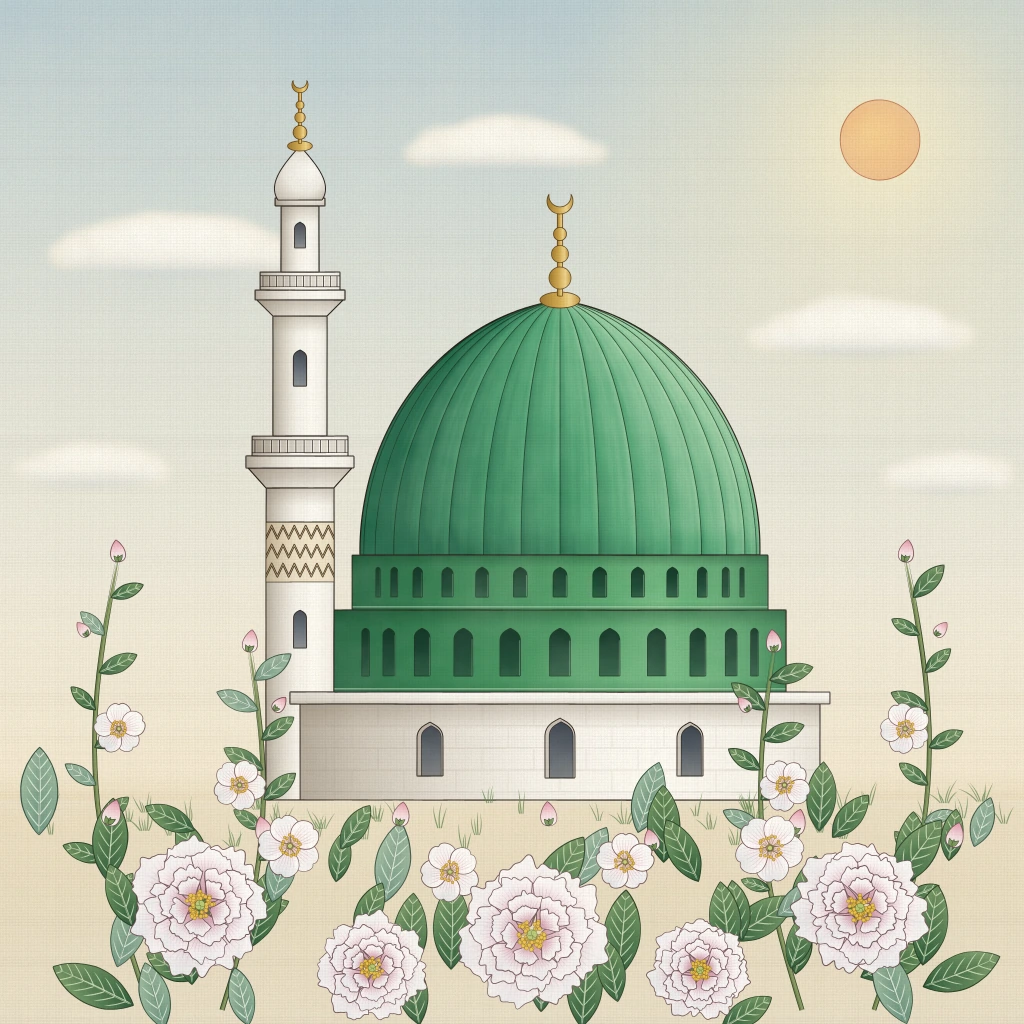
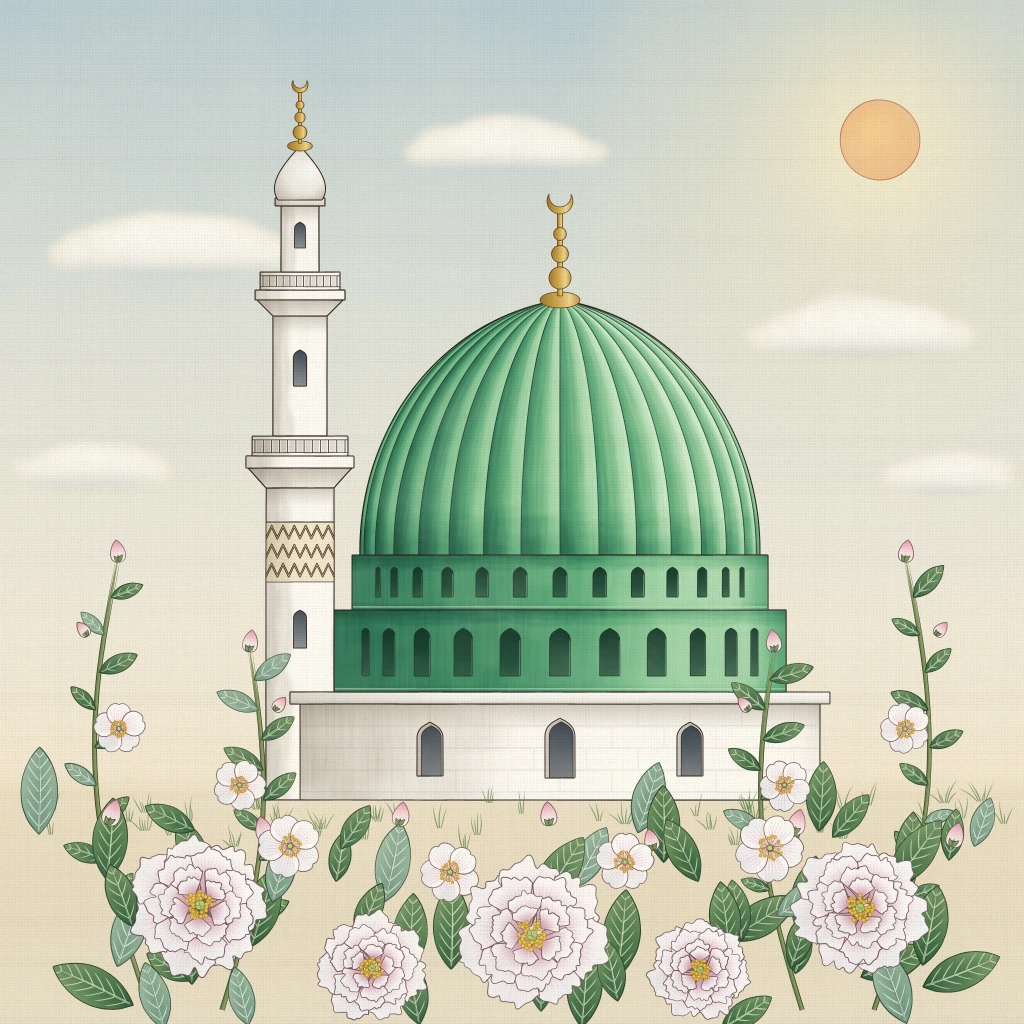
Atölye: beşinci tur çalışmalarının ara kaydı
Claude-Session: https://claude.ai/code/session_01Q8CfoBGMPN7gfLWQYpMs1J

diff --git a/atolye/stiller/S-182-guaj-doga-levhasi/ornek.html b/atolye/stiller/S-182-guaj-doga-levhasi/ornek.html
@@ -664,7 +664,7 @@
           ctx.strokeStyle = css(cc, o.alfa * (0.8 + R() * 0.4));
           ctx.lineWidth = o.kalin * (0.8 + R() * 0.4);
           let ca = Math.cos(a), sa = Math.sin(a);
-          const bk = (R() - 0.5) * 0.9;
+          const bk = (R() - 0.5) * 0.6;
           ctx.beginPath();
           ctx.moveTo(x - ca * L / 2, y - sa * L / 2);
           ctx.quadraticCurveTo(x - sa * bk, y + ca * bk, x + ca * L / 2, y + sa * L / 2);
@@ -708,7 +708,7 @@
   // ================================================================ zemin (soluk ılık levha zemini) ve gök
   const gokR = rampa([[0, '#8FBAD8'], [0.3, '#B5D0DF'], [0.58, '#E0E6DE'], [0.8, '#F4EAD3'], [1, '#F3E0BC']]);
   const gokF = (x, y) => { const c = gokR(y / 800 + (nI(x * 0.004, y * 0.004) - 0.5) * 0.06); const g = Math.exp(-Math.pow(Math.hypot(x - 880, y - 140) / 170, 2)); return [lerp(c[0], 253, g * 0.75), lerp(c[1], 247, g * 0.75), lerp(c[2], 228, g * 0.75)]; };
-  boya(new Path2D('M-10,-10 L1034,-10 L1034,806 L-10,806 Z'), [0, 0, 1024, 806], gokF, (x, y) => 0.04 + (nI(x * 0.006, y * 0.006) - 0.5) * 0.12, { yog: 0.9, uzun: 13, kalin: 0.8, alfa: 0.55, kontrast: 0.07, duz: 0, capraz: 0, ara: 2.6, doku: 0.012, sap: 0.05 });
+  boya(new Path2D('M-10,-10 L1034,-10 L1034,806 L-10,806 Z'), [0, 0, 1024, 806], gokF, (x, y) => 0.04 + (nI(x * 0.006, y * 0.006) - 0.5) * 0.12, { yog: 0.9, uzun: 10, kalin: 0.75, alfa: 0.5, kontrast: 0.055, duz: 0, capraz: 0, ara: 2.5, doku: 0.012, sap: 0.06 });
   // güneş: yumuşak, örtücü açık disk
   guaj(ctx, (x) => { x.filter = `blur(${2.5 * OL}px)`; x.beginPath(); x.arc(880, 140, 36, 0, PI2); x.fill(); }, '#FFF8E6', { kutu: [830, 90, 930, 190], alfa: 0.92, doku: 0.01, tohum: 4 });
   // bulutlar: yumuşak kenarlı örtücü beyaz, altları soğuk gri
@@ -724,11 +724,18 @@
       for (const d of b.daireler) { x.beginPath(); x.arc(d.x, d.y, d.r, 0, PI2); x.fill(); }
       x.restore();
     }, '#FFFFFF', { kutu, f: (x, y) => bulR(clamp((y - top) / (b.taban - top), 0, 1) * 0.8 + clamp((bx - x) / (200 * bs), 0, 0.3)), yon: 0.1, doku: 0.015, alfa: 0.94, tohum: 10 + bx });
+    // bulut kabarıklarını izleyen ince örtücü taramalar
+    const bulYol = new Path2D();
+    for (const d of b.daireler) { bulYol.moveTo(d.x + d.r * 0.9, d.y); bulYol.arc(d.x, d.y, d.r * 0.9, 0, PI2); }
+    const enYakin = (x, y) => { let m = 1e9, q = b.daireler[0]; for (const d of b.daireler) { const v = Math.hypot(x - d.x, y - d.y) - d.r; if (v < m) { m = v; q = d; } } return q; };
+    ctx.save(); ctx.beginPath(); ctx.rect(0, 0, 1024, b.taban - 2); ctx.clip();
+    boya(bulYol, kutu, (x, y) => bulR(clamp((y - top) / (b.taban - top), 0, 1) * 0.85 + clamp((bx - x) / (200 * bs), 0, 0.3)), (x, y) => { const d = enYakin(x, y); return Math.atan2(y - d.y, x - d.x) + Math.PI / 2; }, { zemin: false, yog: 1, uzun: 6, kalin: 0.6, alfa: 0.55, kontrast: 0.1, ara: 2, capraz: 0 });
+    ctx.restore();
   }
 
   // ---- yer: soluk kum, ince çakıl ve ot
   const yerR = rampa([[0, '#E6D1A2'], [1, '#D2B47D']]);
-  boya(new Path2D('M-10,800 L1034,800 L1034,1034 L-10,1034 Z'), [0, 800, 1024, 1024], (x, y) => yerR((y - 800) / 224 + (nI(x * 0.02, y * 0.05) - 0.5) * 0.25), 0.02, { yog: 0.8, uzun: 11, alfa: 0.5, kontrast: 0.1, duz: 0, ara: 2.4 });
+  boya(new Path2D('M-10,800 L1034,800 L1034,1034 L-10,1034 Z'), [0, 800, 1024, 1024], (x, y) => yerR((y - 800) / 224 + (nI(x * 0.012, y * 0.02) - 0.5) * 0.12), (x, y) => -0.35 + (nI(x * 0.01, y * 0.01) - 0.5) * 0.3, { yog: 0.9, uzun: 6, kalin: 0.65, alfa: 0.55, kontrast: 0.11, duz: 0, ara: 2.1, capraz: 0 });
   // binanın yere düşen yumuşak gölgesi
   guaj(ctx, (x) => { x.filter = `blur(${2 * OL}px)`; x.beginPath(); x.moveTo(266, 801); x.lineTo(822, 801); x.lineTo(800, 811); x.lineTo(250, 815); x.closePath(); x.fill(); }, '#BCA987', { kutu: [240, 796, 830, 822], alfa: 0.5 });
   for (let i = 0; i < 140; i++) {
@@ -748,7 +755,7 @@
   }
 
   // ================================================================ taş paleti ve minare
-  const tasR = rampa([[0, '#B9A889'], [0.35, '#D3C5A7'], [0.7, '#EADFC8'], [1, '#F7F0E1']]);
+  const tasR = rampa([[0, '#A9967A'], [0.35, '#CDBD9C'], [0.7, '#EADDC2'], [1, '#FBF4E4']]);
   const MY = minareYollari();
   const silY = (x) => Math.PI / 2; // dikey taramalar
   for (const p of MY) {
@@ -757,7 +764,7 @@
     const R0 = (p.kx2 - p.kx1) / 2;
     const kutu = [p.kx1, p.ky1, p.kx2, p.ky2];
     const cikma = p.ad.startsWith('çıkma');
-    boya(yol, kutu, (x, y) => tasR(silindirIsik(x, 300, R0) * (cikma ? 0.55 : 1) - (p.ad.startsWith('şerefe') && y > p.ky2 - 3 ? 0.35 : 0)), silY, { yog: 0.8, uzun: 6, kalin: 0.6 });
+    boya(yol, kutu, (x, y) => tasR((0.1 + 0.95 * Math.pow(silindirIsik(x, 300, R0), 1.4)) * (cikma ? 0.6 : 1) - (p.ad.startsWith('şerefe') && y > p.ky2 - 3 ? 0.35 : 0)), silY, { yog: 1, uzun: 6, kalin: 0.6, kontrast: 0.16, ara: 2 });
     if (cikma) {
       // çıkmanın ince dikey yivleri
       for (let x = p.kx1 + 5; x < p.kx2 - 4; x += 6) {
@@ -917,7 +924,7 @@
       return [c[0] * (1 + v * 0.12), c[1], c[2] * (1 - v * 0.1)];
     };
     const yonK = (x, y) => { const r0 = kubbeYaricap(y); const u = clamp((x - 560) / Math.max(r0, 1), -1, 1); return Math.PI / 2 + u * 0.6; };
-    boya(kubbe, kk, renkK, yonK, { yog: 1.25, uzun: 10, kalin: 0.75, alfa: 0.62, kontrast: 0.24, duz: 0.35, ara: 2.2 });
+    boya(kubbe, kk, renkK, yonK, { yog: 1.25, uzun: 9, kalin: 0.75, alfa: 0.62, kontrast: 0.24, duz: 0.35, ara: 2.1, sap: 0.04 });
     // kaburga sırtları: solda ince koyu, sağda ince açık çizgi
     for (const kb of SAHNE.kaburgalar(16)) {
       const pts = kb.noktalar.filter((q) => q[1] > 306);

diff --git a/atolye/stiller/S-169-kuru-firca-naturalist/ornek.html b/atolye/stiller/S-169-kuru-firca-naturalist/ornek.html
@@ -397,6 +397,7 @@
   const cicekAlan = (c) => { for (const f of cicekler) { for (const t of f.tac) c.fill(P(t.d)); c.beginPath(); c.arc(f.c.x, f.c.y, f.c.r * 0.3, 0, Math.PI * 2); c.fill(); } };
   const mCicek = M.maske(cicekAlan);
   const mBitki = M.maske((c) => { c.lineWidth = 4; for (const s of Y.saplar) c.stroke(P(s)); for (const d of Y.yapraklar) c.fill(P(d)); for (const d of Y.tomurcuklar) c.fill(P(d)); cicekAlan(c); });
+  const mOnde = M.birles(mCicek, M.yolMaske(Y.tomurcuklar)); // yaprakların önünde kalan çiçek ve tomurcuklar
   const korOn = mBitki;
   const tumKor = M.birles(mBina, mBitki);
 
@@ -439,8 +440,8 @@
   M.yika(M.fMaske([300, 700, 820, 730], (x, y) => (y >= 704 ? mKaide.a[y * W + x] * sstep(728, 706, y) : 0)), '#B9B4C4', { yog: 0.7, koru: korOn, kenar: 0.04 });
   M.yika(M.fMaske([300, 704, 820, 800], (x, y) => mKaide.a[y * W + x] * clamp((480 - x) / 200, 0, 1)), '#CCC7D4', { yog: 0.4, yumusak: 2, koru: korOn, kenar: 0 });
   // bitki ilk yıkamaları
-  M.yika(M.yolMaske(Y.yapraklar), '#B3CC8C', { yog: 0.85, yumusak: 0.5, koru: mCicek, kenar: 0.1, gran: 0.1, akis: 0.18 });
-  M.yika(M.maske((c) => { c.lineWidth = 3; for (const s of Y.saplar) c.stroke(P(s)); }), '#86A762', { yog: 0.85, koru: mCicek, kenar: 0.08 });
+  M.yika(M.yolMaske(Y.yapraklar), '#B3CC8C', { yog: 0.85, yumusak: 0.5, koru: mOnde, kenar: 0.1, gran: 0.1, akis: 0.18 });
+  M.yika(M.maske((c) => { c.lineWidth = 3; for (const s of Y.saplar) c.stroke(P(s)); }), '#86A762', { yog: 0.85, koru: mOnde, kenar: 0.08 });
   M.yika(M.yolMaske(Y.tomurcuklar), '#E9B2BE', { yog: 0.8, koru: mCicek, kenar: 0.1 });
 
   // ------------------------------------------------------------ 2. kuru fırça: biçimi izleyen ince darbeler
@@ -513,7 +514,7 @@
         c.restore();
       }
     });
-    M.yika(m, renk, { yog, kuru: 0.42, kuruY: 0.1, koru: mCicek, kenar: 0, gran: 0.1, akis: 0.06 });
+    M.yika(m, renk, { yog, kuru: 0.42, kuruY: 0.1, koru: mOnde, kenar: 0, gran: 0.1, akis: 0.06 });
   }
   yaprakKat(yapraklar, '#5E8C4A', 0.8, true, 21);
   yaprakKat(yapraklar.filter((o) => o.i % 2 === 0), '#3B6A47', 0.7, false, 22);
@@ -525,9 +526,9 @@
       const [a, b] = SAHNE.yaprakDamari(y);
       c.beginPath(); c.moveTo(a[0] + t * nx * 1.3, a[1] + t * ny * 1.3); c.lineTo(b[0] + t * nx * 1.3, b[1] + t * ny * 1.3); c.stroke();
     }
-  }), '#355E3F', { yog: 0.6, kuru: 0.35, kuruY: 0.12, koru: mCicek, kenar: 0 });
+  }), '#355E3F', { yog: 0.6, kuru: 0.35, kuruY: 0.12, koru: mOnde, kenar: 0 });
   // saplar ve tomurcuklar: ince ayrıntı
-  M.yika(M.maske((c) => { c.lineWidth = 1.2; c.translate(-0.8, 0.5); for (const s of Y.saplar) c.stroke(P(s)); }), '#3F6A3E', { yog: 0.7, kuru: 0.36, koru: mCicek, kenar: 0 });
+  M.yika(M.maske((c) => { c.lineWidth = 1.2; c.translate(-0.8, 0.5); for (const s of Y.saplar) c.stroke(P(s)); }), '#3F6A3E', { yog: 0.7, kuru: 0.36, koru: mOnde, kenar: 0 });
   kuruKat(Y.tomurcuklar, { n: 400, kutu: [60, 520, 980, 870], olas: () => 1, yon: (x, y) => { let best = 0, bd = 1e9; for (const t of B.tomurcuklar) { const d = (x - t.x) ** 2 + (y - t.y) ** 2; if (d < bd) { bd = d; best = t.aci; } } return best; }, uz: [4, 9], kal: [0.8, 1.1], tohum: 23 }, '#B5577A', { yog: 0.7, kuru: 0.42, koru: mCicek });
   M.yika(M.maske((c) => { for (const t of B.tomurcuklar) { c.beginPath(); c.ellipse(t.x - Math.cos(t.aci) * t.r * 0.55, t.y - Math.sin(t.aci) * t.r * 0.55, t.r * 0.62, t.r * 0.42, t.aci, 0, Math.PI * 2); c.fill(); } }), '#5F8A4C', { yog: 0.8, koru: mCicek, kenar: 0.1, gran: 0.15 });
 

diff --git a/atolye/stiller/S-168-tonlu-kagitta-suluboya/ornek.html b/atolye/stiller/S-168-tonlu-kagitta-suluboya/ornek.html
@@ -410,6 +410,7 @@
   const cicekAlan = (c) => { for (const f of cicekler) { for (const t of f.tac) c.fill(P(t.d)); c.beginPath(); c.arc(f.c.x, f.c.y, f.c.r * 0.3, 0, Math.PI * 2); c.fill(); } };
   const mCicek = M.maske(cicekAlan);
   const mBitki = M.maske((c) => { c.lineWidth = 4; for (const s of Y.saplar) c.stroke(P(s)); for (const d of Y.yapraklar) c.fill(P(d)); for (const d of Y.tomurcuklar) c.fill(P(d)); cicekAlan(c); });
+  const mOnde = M.birles(mCicek, M.yolMaske(Y.tomurcuklar)); // yaprakların önünde kalan çiçek ve tomurcuklar
   const korOn = mBitki;
 
   // ------------------------------------------------------------ 1. gök: saydam serüle-kobalt, ufukta soluk sıcak
@@ -482,12 +483,12 @@
   // ------------------------------------------------------------ 4. zemin ve bitkiler (saydam)
   M.yika(M.fMaske([0, 796, W, W], (x, y) => (y >= 800 ? 1 : 0)), '#E4B48A', { yog: 0.5, koru: M.birles(korOn, mBina), kenar: 0.15, gran: 0.18, akis: 0.15, titre: 0.5, grad: (x, y) => 0.75 + 0.4 * sstep(800, 1024, y) });
   M.yika(M.maske((c) => { c.translate(-5, 4); for (const d of Y.yapraklar) c.fill(P(d)); cicekAlan(c); }), '#9C93A8', { yog: 0.25, koru: M.birles(korOn, mBina), kenar: 0.2, titre: 0.6, grad: (x, y) => (y > 802 ? 1 : 0) });
-  M.yika(M.maske((c) => { c.lineWidth = 3.2; for (const s of Y.saplar) c.stroke(P(s)); }), '#5E8C4A', { yog: 0.85, koru: mCicek, kenar: 0.2, titre: 0.4 });
+  M.yika(M.maske((c) => { c.lineWidth = 3.2; for (const s of Y.saplar) c.stroke(P(s)); }), '#5E8C4A', { yog: 0.85, koru: mOnde, kenar: 0.2, titre: 0.4 });
   const yapraklar = B.yapraklar.map((y, i) => ({ y, i, t: R() }));
   for (const grup of [0, 1, 2].map((k) => yapraklar.filter((o) => o.i % 3 === k))) {
-    M.yika(M.yolMaske(grup.filter((o) => o.t < 0.55).map((o) => SAHNE.yaprakYolu(o.y))), '#8DB665', { yog: 0.9, koru: mCicek, kenar: 0.3, kenarR: 2.5, gran: 0.12, titre: 0.45 });
-    M.yika(M.yolMaske(grup.filter((o) => o.t >= 0.55).map((o) => SAHNE.yaprakYolu(o.y))), '#6FA779', { yog: 0.9, koru: mCicek, kenar: 0.3, kenarR: 2.5, gran: 0.12, titre: 0.45 });
-    M.yika(M.yolMaske(grup.map((o) => { const nx = -Math.sin(o.y.aci), ny = Math.cos(o.y.aci); return yaprakYarisi(o.y, nx * LX + ny * LY > 0 ? -1 : 1); })), '#2E6A4C', { yog: 0.6, koru: mCicek, kenar: 0.3, kenarR: 2, gran: 0.1, titre: 0.4 });
+    M.yika(M.yolMaske(grup.filter((o) => o.t < 0.55).map((o) => SAHNE.yaprakYolu(o.y))), '#8DB665', { yog: 0.9, koru: mOnde, kenar: 0.3, kenarR: 2.5, gran: 0.12, titre: 0.45 });
+    M.yika(M.yolMaske(grup.filter((o) => o.t >= 0.55).map((o) => SAHNE.yaprakYolu(o.y))), '#6FA779', { yog: 0.9, koru: mOnde, kenar: 0.3, kenarR: 2.5, gran: 0.12, titre: 0.45 });
+    M.yika(M.yolMaske(grup.map((o) => { const nx = -Math.sin(o.y.aci), ny = Math.cos(o.y.aci); return yaprakYarisi(o.y, nx * LX + ny * LY > 0 ? -1 : 1); })), '#2E6A4C', { yog: 0.6, koru: mOnde, kenar: 0.3, kenarR: 2, gran: 0.1, titre: 0.4 });
   }
   M.yika(M.yolMaske(Y.tomurcuklar), '#DC8FA6', { yog: 0.85, koru: mCicek, kenar: 0.3, titre: 0.3 });
   M.yika(M.maske((c) => { for (const t of B.tomurcuklar) { c.beginPath(); c.ellipse(t.x - Math.cos(t.aci) * t.r * 0.55, t.y - Math.sin(t.aci) * t.r * 0.55, t.r * 0.62, t.r * 0.42, t.aci, 0, Math.PI * 2); c.fill(); } }), '#5E8C4A', { yog: 0.8, koru: mCicek, kenar: 0.25, titre: 0.25 });

diff --git a/atolye/stiller/S-167-pastel-tonlu-suluboya/ornek.html b/atolye/stiller/S-167-pastel-tonlu-suluboya/ornek.html
@@ -411,6 +411,7 @@
   const mTomurcuk = M.maske((c) => { for (const t of B.tomurcuklar) { c.beginPath(); c.ellipse(t.x + Math.cos(t.aci) * t.r * 0.3, t.y + Math.sin(t.aci) * t.r * 0.3, t.r * 1.05, t.r * 0.95, t.aci, 0, Math.PI * 2); c.fill(); } });
   const mBitki = M.maske((c) => {
     c.lineWidth = 4; for (const s of Y.saplar) c.stroke(P(s));
+  const mOnde = M.birles(mCicek, mTomurcuk); // yaprakların önünde kalan çiçek ve tomurcuklar
     for (const d of Y.yapraklar) c.fill(P(d));
     for (const t of B.tomurcuklar) { c.beginPath(); c.ellipse(t.x + Math.cos(t.aci) * t.r * 0.3, t.y + Math.sin(t.aci) * t.r * 0.3, t.r * 1.05, t.r * 0.95, t.aci, 0, Math.PI * 2); c.fill(); }
     for (const f of cicekler) { for (const t of f.yap) c.fill(P(t.d)); c.beginPath(); c.arc(f.c.x, f.c.y, f.r * 0.86, 0, Math.PI * 2); c.fill(); }
@@ -511,12 +512,12 @@
   // önde, çiçeklerin arkasında ıslakta yayılmış soluk adaçayı-nane yaprak kütlesi (çiçeklerin beyazını öne çıkarır)
   M.yika(M.fMaske([0, 760, W, W], (x, y) => vin(x, Math.min(y, 1000)) * sstep(800 + (M.fbm(nz, x / 70, 3, 3) - 0.5) * 90, 870, y)), '#CFE5D0', { yog: 0.85, yumusak: 3, koru: M.mBulanik(mCicek, 1), kenar: 0.06, gran: 0.05, akis: 0.22, tuy: 0.5 });
   // ------------------------------------------------------------ 5. yapraklar ve saplar: nane ve adaçayı, yumuşak kenarlı
-  M.yika(M.maske((c) => { c.lineWidth = 3; for (const s of Y.saplar) c.stroke(P(s)); }), '#9CC59E', { yog: 0.85, yumusak: 0.4, koru: mCicek, kenar: 0.08 });
+  M.yika(M.maske((c) => { c.lineWidth = 3; for (const s of Y.saplar) c.stroke(P(s)); }), '#9CC59E', { yog: 0.85, yumusak: 0.4, koru: mOnde, kenar: 0.08 });
   const yapraklar = B.yapraklar.map((y, i) => ({ y, i, t: R() }));
   for (const grup of [0, 1, 2].map((k) => yapraklar.filter((o) => o.i % 3 === k))) {
-    M.yika(M.yolMaske(grup.filter((o) => o.t < 0.5).map((o) => SAHNE.yaprakYolu(o.y))), '#C2E3C5', { yog: 0.9, yumusak: 1, koru: mCicek, kenar: 0.14, kenarR: 3, gran: 0.06, akis: 0.2 });
-    M.yika(M.yolMaske(grup.filter((o) => o.t >= 0.5).map((o) => SAHNE.yaprakYolu(o.y))), '#A9D3B6', { yog: 0.9, yumusak: 1, koru: mCicek, kenar: 0.14, kenarR: 3, gran: 0.06, akis: 0.2 });
-    M.yika(M.yolMaske(grup.map((o) => { const nx = -Math.sin(o.y.aci), ny = Math.cos(o.y.aci); return yaprakYarisi(o.y, nx * LX + ny * LY > 0 ? -1 : 1); })), '#7FB79A', { yog: 0.6, yumusak: 1.6, koru: mCicek, kenar: 0.1, gran: 0.05 });
+    M.yika(M.yolMaske(grup.filter((o) => o.t < 0.5).map((o) => SAHNE.yaprakYolu(o.y))), '#C2E3C5', { yog: 0.9, yumusak: 1, koru: mOnde, kenar: 0.14, kenarR: 3, gran: 0.06, akis: 0.2 });
+    M.yika(M.yolMaske(grup.filter((o) => o.t >= 0.5).map((o) => SAHNE.yaprakYolu(o.y))), '#A9D3B6', { yog: 0.9, yumusak: 1, koru: mOnde, kenar: 0.14, kenarR: 3, gran: 0.06, akis: 0.2 });
+    M.yika(M.yolMaske(grup.map((o) => { const nx = -Math.sin(o.y.aci), ny = Math.cos(o.y.aci); return yaprakYarisi(o.y, nx * LX + ny * LY > 0 ? -1 : 1); })), '#7FB79A', { yog: 0.6, yumusak: 1.6, koru: mOnde, kenar: 0.1, gran: 0.05 });
   }
   // tomurcuklar: yuvarlak şakayık tomurcukları, pembe
   M.yika(mTomurcuk, '#F4C3CD', { yog: 0.9, yumusak: 0.6, koru: mCicek, kenar: 0.12 });

diff --git a/atolye/stiller/S-166-isikli-sir-suluboya/ornek.html b/atolye/stiller/S-166-isikli-sir-suluboya/ornek.html
@@ -402,6 +402,7 @@
   const mTomurcuk = M.yolMaske(Y.tomurcuklar);
   const mBitki = M.maske((c) => {
     c.lineWidth = 4; for (const s of Y.saplar) c.stroke(P(s));
+  const mOnde = M.birles(mCicek, mTomurcuk); // yaprakların önünde kalan çiçek ve tomurcuklar
     for (const d of Y.yapraklar) c.fill(P(d));
     for (const d of Y.tomurcuklar) c.fill(P(d));
     for (const f of cicekler) { for (const t of f.tac) c.fill(P(t.d)); c.beginPath(); c.arc(f.c.x, f.c.y, f.c.r * 0.3, 0, Math.PI * 2); c.fill(); }
@@ -638,15 +639,15 @@
   M.yika(M.mBulanik(M.maske((c) => { c.translate(-9, 7); for (const d of Y.yapraklar) c.fill(P(d)); for (const f of cicekler) for (const t of f.tac) c.fill(P(t.d)); }), 1), '#A9ABD6', { yog: 0.7, koru: M.birles(korOn, mBina), kenar: 0.3, titre: 0.6, grad: (x, y) => (y > 800 ? 1 : 0) });
 
   // ------------------------------------------------------------ 7. bitkiler: saplar, yapraklar (iki yarım, ortada korunmuş damar), tomurcuklar
-  M.yika(M.maske((c) => { c.lineWidth = 3.4; for (const s of Y.saplar) c.stroke(P(s)); }), '#79A64A', { yog: 0.9, koru: mCicek, kenar: 0.3, titre: 0.4 });
-  M.yika(M.maske((c) => { c.lineWidth = 1.6; c.translate(-1, 0.6); for (const s of Y.saplar) c.stroke(P(s)); }), '#2F6A4A', { yog: 0.5, koru: mCicek, kenar: 0.2, titre: 0.3 });
+  M.yika(M.maske((c) => { c.lineWidth = 3.4; for (const s of Y.saplar) c.stroke(P(s)); }), '#79A64A', { yog: 0.9, koru: mOnde, kenar: 0.3, titre: 0.4 });
+  M.yika(M.maske((c) => { c.lineWidth = 1.6; c.translate(-1, 0.6); for (const s of Y.saplar) c.stroke(P(s)); }), '#2F6A4A', { yog: 0.5, koru: mOnde, kenar: 0.2, titre: 0.3 });
   // yapraklar: arkadan öne gruplar halinde; her yaprak ışıklı yarısı sarı-yeşil, gölge yarısı mavi-yeşil
   const yapraklar = B.yapraklar.map((y, i) => ({ y, i, tonR: R(), tonG: R() }));
   const damarKoru = (liste) => M.maske((c) => { c.lineWidth = 1.3; for (const o of liste) { const [a, b] = SAHNE.yaprakDamari(o.y); c.beginPath(); c.moveTo(a[0], a[1]); c.lineTo(b[0], b[1]); c.stroke(); } });
   const gruplar = [yapraklar.filter((o) => o.i % 3 === 0), yapraklar.filter((o) => o.i % 3 === 1), yapraklar.filter((o) => o.i % 3 === 2)];
   for (const grup of gruplar) {
     const dk = damarKoru(grup);
-    const korY = M.birles(mCicek, dk);
+    const korY = M.birles(mOnde, dk);
     const sicak = grup.filter((o) => o.tonR < 0.55), serin = grup.filter((o) => o.tonR >= 0.55);
     M.yika(M.yolMaske(sicak.map((o) => SAHNE.yaprakYolu(o.y))), '#B4D467', { yog: 0.85, koru: korY, kenar: 0.35, kenarR: 2.5, gran: 0.15, titre: 0.45 });
     M.yika(M.yolMaske(serin.map((o) => SAHNE.yaprakYolu(o.y))), '#93C878', { yog: 0.85, koru: korY, kenar: 0.35, kenarR: 2.5, gran: 0.15, titre: 0.45 });

diff --git a/atolye/stiller/S-170-mimari-lavi/ornek.html b/atolye/stiller/S-170-mimari-lavi/ornek.html
@@ -389,6 +389,7 @@
   const cicekAlan = (c) => { for (const f of cicekler) { for (const t of f.tac) c.fill(P(t.d)); c.beginPath(); c.arc(f.c.x, f.c.y, f.c.r * 0.3, 0, Math.PI * 2); c.fill(); } };
   const mCicek = M.maske(cicekAlan);
   const mBitki = M.maske((c) => { c.lineWidth = 3; for (const s of Y.saplar) c.stroke(P(s)); for (const d of Y.yapraklar) c.fill(P(d)); for (const d of Y.tomurcuklar) c.fill(P(d)); cicekAlan(c); });
+  const mOnde = M.birles(mCicek, M.yolMaske(Y.tomurcuklar)); // yaprakların önünde kalan çiçek ve tomurcuklar
   const korOn = mBitki;
   const tumKor = M.birles(mBina, mBitki);
 
@@ -462,8 +463,8 @@
   [860, 930, 990].forEach((ust) => lavi(M.fMaske([0, 796, W, W], (x, y) => (y >= ust ? 1 : 0)), '#D9C59E', 0.18, { koru: M.birles(korOn, mBina) }));
   lavi(M.maske((c) => { c.translate(-10, 10); for (const d of Y.yapraklar) c.fill(P(d)); cicekAlan(c); }), '#AEA6B5', 0.35, { koru: M.birles(korOn, mBina), grad: (x, y) => (y > 802 ? 1 : 0) });
   // yapraklar: düz soluk yeşil, gölge yarısı ikinci kat
-  lavi(M.yolMaske(Y.yapraklar), '#BDD3A8', 0.85, { koru: mCicek });
-  lavi(M.yolMaske(B.yapraklar.map((y) => { const nx = -Math.sin(y.aci), ny = Math.cos(y.aci); return yaprakYarisi(y, nx * LX + ny * LY > 0 ? -1 : 1); })), '#7FA683', 0.55, { koru: mCicek });
+  lavi(M.yolMaske(Y.yapraklar), '#BDD3A8', 0.85, { koru: mOnde });
+  lavi(M.yolMaske(B.yapraklar.map((y) => { const nx = -Math.sin(y.aci), ny = Math.cos(y.aci); return yaprakYarisi(y, nx * LX + ny * LY > 0 ? -1 : 1); })), '#7FA683', 0.55, { koru: mOnde });
   lavi(M.yolMaske(Y.tomurcuklar), '#E6B5C1', 0.8, { koru: mCicek });
   lavi(M.maske((c) => { c.lineWidth = 2.6; for (const s2 of Y.saplar) c.stroke(P(s2)); }), '#9DBB86', 0.85, { koru: M.birles(mCicek, M.yolMaske(Y.yapraklar)) });
   // çiçekler: beyaz kâğıt; ışıktan uzak taç yapraklara soluk gri-leylak, göbek sarı
